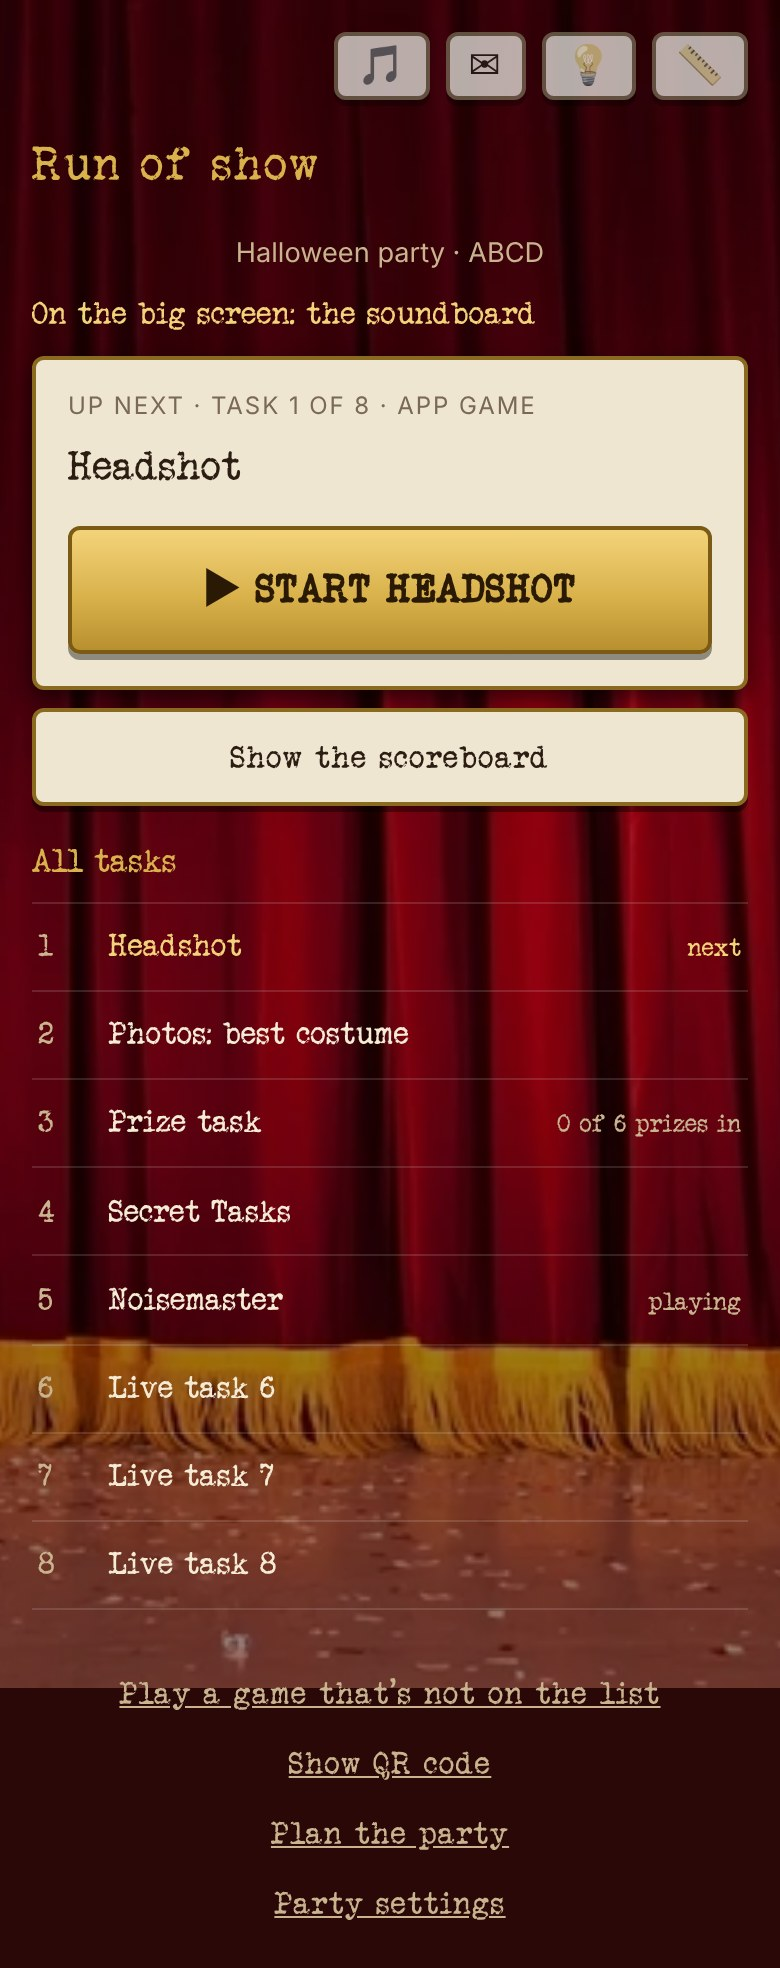
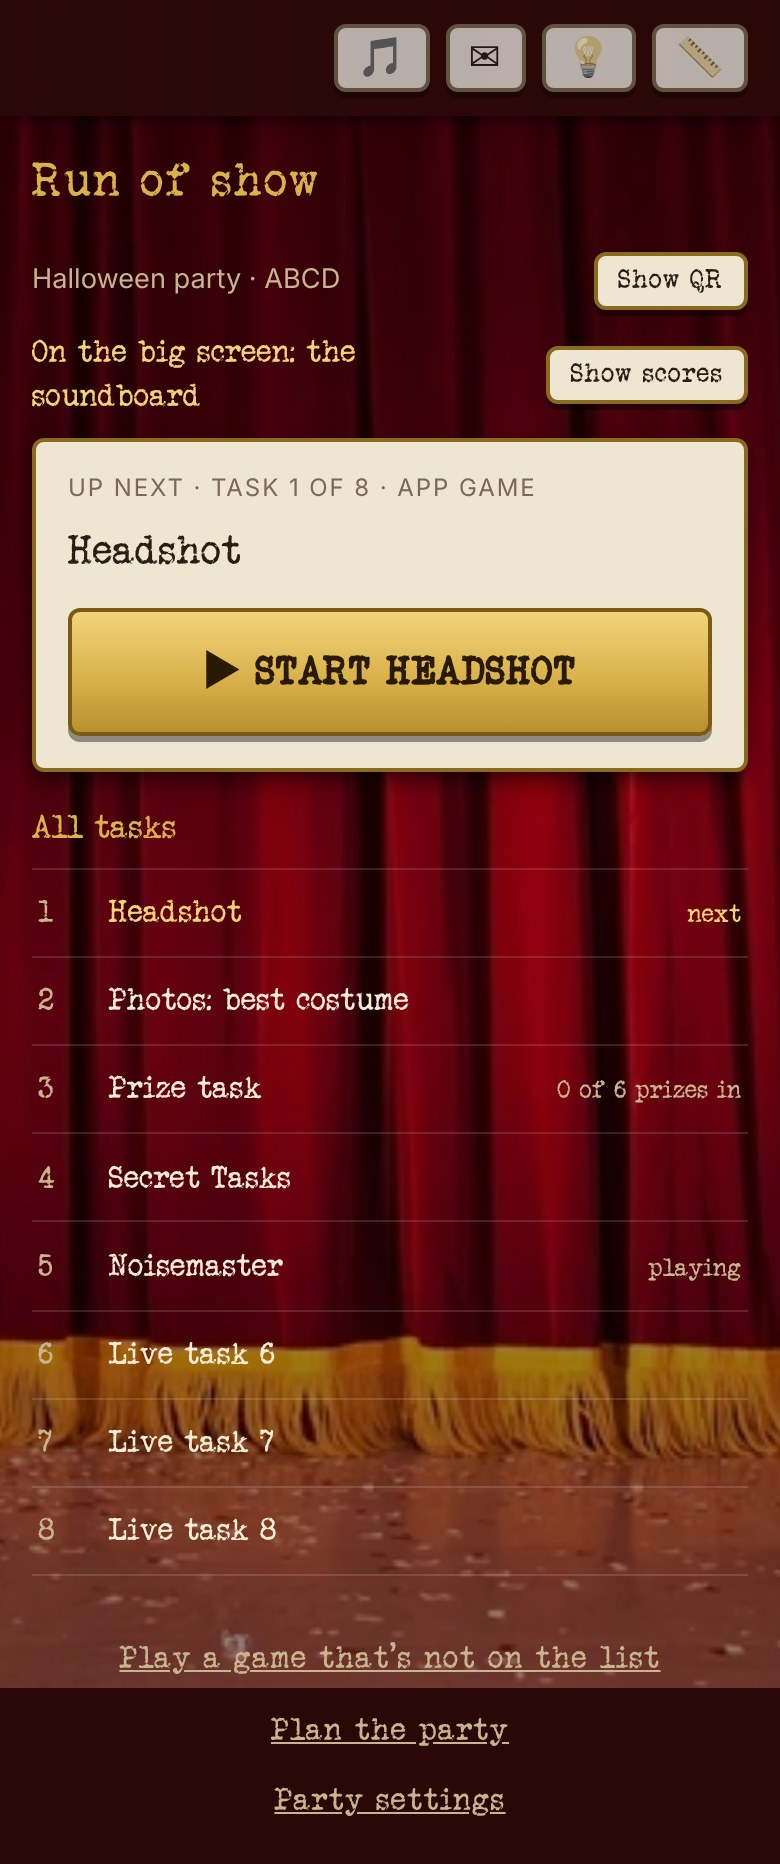
Run of show: Show QR and Show scores as small chips on their lines (draft)
Claude-Session: https://claude.ai/code/session_01JJ78Wp2tedmzgFTByNnrqT

diff --git a/src/scoreboard/RunOfShow.tsx b/src/scoreboard/RunOfShow.tsx
@@ -10,9 +10,10 @@ import { beginTask } from "./TaskPage";
 import { activeTaskId, allScored, list, pendingIds, scored, sorted, titleOf, upNextOf } from "./tasks";
 
 /**
- * The host remote's home: one line saying what's on the big screen, then the one next thing in gold (the
- * scoreboard's next step while it's up, or else the "Up next" card), "Show the scoreboard" as paper, and the
- * task list to see where the night is. Tapping a task opens its page. Building the party is behind "Plan the party".
+ * The host remote's home: the party line with a small "Show QR" chip, one line saying what's on the big screen with
+ * a small "Show scores" chip, then the one next thing in gold (the scoreboard's next step while it's up, or else the
+ * "Up next" card), and the task list to see where the night is. Tapping a task opens its page. Building the party is
+ * behind "Plan the party".
  */
 export function RunOfShow({ code, session, onOpen, onTiebreak, footer }: {
   code: string; session: Session;
@@ -68,8 +69,12 @@ export function RunOfShow({ code, session, onOpen, onTiebreak, footer }: {
   return (
     <div className="box-setup scoreboard-remote run-of-show">
       <h2>Run of show</h2>
-      <p className="muted small party-line">{session.name ? `${session.name} · ` : ""}{code}</p>
-      <OnScreen code={code} session={session} />
+      <div className="line-chip">
+        <p className="muted small party-line">{session.name ? `${session.name} · ` : ""}{code}</p>
+        <JoinQr code={code} session={session} />
+      </div>
+      <OnScreen code={code} session={session} chip={!up && !haulUp && !winner
+        ? <button className="line-chip-button" onClick={() => void showScoreboard(code)}>Show scores</button> : undefined} />
       {noBigScreen(session) && <p className="muted small">On the night, open the big screen and resume party {code}.</p>}
       {scores}
       {!haulUp && unscored.length > 0 && (final ? (
@@ -82,14 +87,6 @@ export function RunOfShow({ code, session, onOpen, onTiebreak, footer }: {
       {arrivals && <Arrivals code={code} session={session} />}
       {finale ? <Finale code={code} count={tasks.length} quiet={!!scores} />
         : <UpNext code={code} session={session} quiet={!!scores} onOpen={onOpen} />}
-      {!up && !haulUp && !winner && (
-        <>
-          <button onClick={() => void showScoreboard(code)}>Show the scoreboard</button>
-          {pending.length > 0 && (
-            <p className="muted small">Opens on the scores before {list(pending.map((id) => titleOf(board!.tasks![id]!)))}.</p>
-          )}
-        </>
-      )}
       <TaskList session={session} onOpen={onOpen} />
       {/* The night can end before every task is played: one last update, then the haul. */}
       {!final && !haulUp && unscored.length > 0 && tasks.some(([, t]) => scored(t)) && (
@@ -100,7 +97,6 @@ export function RunOfShow({ code, session, onOpen, onTiebreak, footer }: {
         <button className="link" onClick={() => onOpen("adhoc")}>
           {adHoc ? `Back to ${adHoc.name} (not on the list)` : "Play a game that's not on the list"}
         </button>
-        {!arrivals && <JoinQr code={code} session={session} />}
         {footer}
       </div>
     </div>
@@ -176,8 +172,7 @@ function TaskList({ session, onOpen }: { session: Session; onOpen: (id: string) 
 }
 
 /**
- * Before the first task: who's here, in guest-list order, read-only (changing the list is on Plan the party). "Show QR code"
- * is paper, since this is when people join.
+ * Before the first task: who's here, in guest-list order, read-only (changing the list is on Plan the party).
  */
 function Arrivals({ code, session }: { code: string; session: Session }) {
   const board = session.scoreboard;
@@ -197,7 +192,6 @@ function Arrivals({ code, session }: { code: string; session: Session }) {
           </li>
         ))}
       </ul>
-      <JoinQr code={code} session={session} button />
     </section>
   );
 }

diff --git a/src/HostRemote.tsx b/src/HostRemote.tsx
@@ -52,10 +52,11 @@ export function onScreenLine(session: Session): string {
  * The status line opening every page, and under it, while a song plays, the "now playing" strip: one tap pauses it
  * wherever you are. It's pressed in, never gold, so the gold stays on the next thing to do.
  */
-export function OnScreen({ code, session }: { code: string; session: Session }) {
+export function OnScreen({ code, session, chip }: { code: string; session: Session; chip?: ReactNode }) {
+  const line = <p className="on-screen">On the big screen: {onScreenLine(session)}</p>;
   return (
     <>
-      <p className="on-screen">On the big screen: {onScreenLine(session)}</p>
+      {chip ? <div className="line-chip">{line}{chip}</div> : line}
       <NowPlaying code={code} session={session} />
     </>
   );
@@ -86,14 +87,14 @@ function NowPlaying({ code, session }: { code: string; session: Session }) {
 }
 
 /**
- * For anyone who arrives late: the join code, on the host's phone to hold up. While it's open the big screen
+ * For anyone who arrives late: the join code, on the host's phone to hold up. A small chip beside the code on Run of show. While it's open the big screen
  * shows it too, above its corner code (on the curtain and while entries come in), and closing it hides both.
  */
-export function JoinQr({ code, session, button }: { code: string; session: Session; button?: boolean }) {
+export function JoinQr({ code, session }: { code: string; session: Session }) {
   const close = () => void setShowQr(code, false);
   return (
     <>
-      <button className={button ? undefined : "link"} onClick={() => void setShowQr(code, true)}>Show QR code</button>
+      <button className="line-chip-button" onClick={() => void setShowQr(code, true)}>Show QR</button>
       {session.showQr && (
         <div className="qr-overlay" onClick={close}>
           <figure className="join-qr">

diff --git a/src/styles.css b/src/styles.css
@@ -1343,6 +1343,10 @@ button.big.pressed { transform: translateY(2px); box-shadow: inset 0 3px 6px #00
 .phone.guest .notice { text-align: left; }
 .on-screen.big { font-size: 1.35rem; line-height: 1.3; }
 .party-line { text-align: center; margin: 0; }
+/* a line of text with one small paper chip at its right: Run of show's "Show QR" by the code, "Show scores" by what's on the big screen */
+.line-chip { display: flex; align-items: center; justify-content: space-between; gap: 0.6rem; }
+.line-chip .party-line { text-align: left; }
+.line-chip-button { flex: none; padding: 0.3rem 0.65rem; font-size: 0.85rem; line-height: 1.2; }
 .list-label { margin: 0.4rem 0 0; font-family: var(--typewriter); color: var(--gold); font-size: 1.1rem; }
 .run-list .row-line { display: grid; grid-template-columns: 1.6rem 1fr auto; gap: 0.6rem; align-items: baseline; padding: 0.65rem 0.2rem; font-family: var(--typewriter); color: var(--fg); }
 .run-list li.done .row-line { color: var(--muted); }
